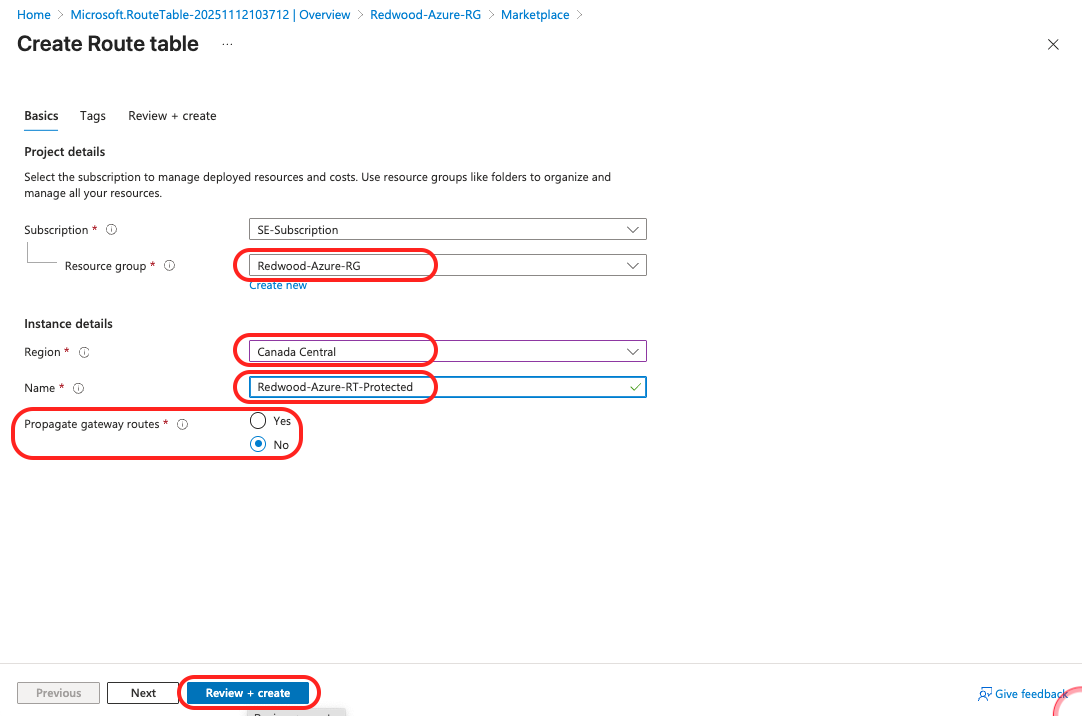
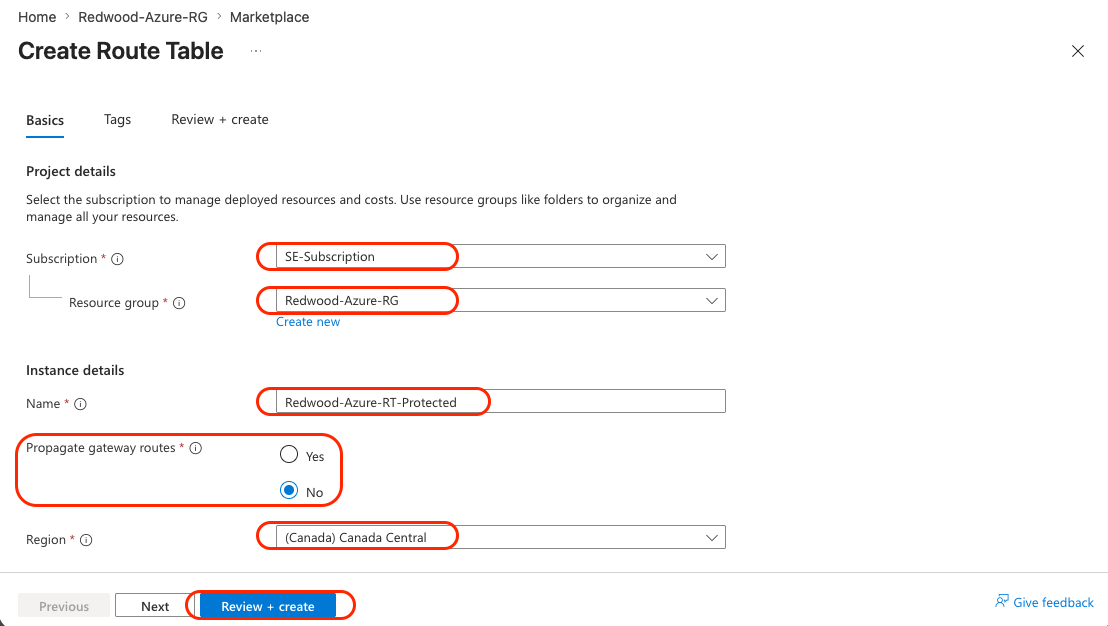
Lab 2 update

diff --git a/az-101-lab2/README.md b/az-101-lab2/README.md
@@ -213,7 +213,7 @@ You need FortiGate's Public IP to access the web management interface.
 
 ### Validation
 
-- ✅ You have copied an IP address in format: `4.x.x.x` or `52.x.x.x` (Canada Central IPs)
+- ✅ You have copied an IP address in format: `4.x.x.x`, `20.x.x.x` or `52.x.x.x` (Canada Central IPs)
 - ✅ IP address is written down or saved
 
 ---
@@ -291,11 +291,11 @@ A Route Table holds User Defined Routes (UDRs) that override Azure's default rou
 3. **Basics Tab:**
    - **Subscription:** Select your Azure subscription
    - **Resource group:** Select **Redwood-Azure-RG**
-   - **Region:** Select **Canada Central**
-     - ⚠️ **Critical:** Must match VNet region
    - **Name:** Enter `Redwood-Azure-RT-Protected`
      - Naming convention: RT = Route Table, Protected = associated subnet
    - **Propagate gateway routes**: `No`
+   - **Region:** Select **Canada Central**
+     - ⚠️ **Critical:** Must match VNet region
 
    ![step5.3-screenshot](images/step5.3-screenshot.png)
 